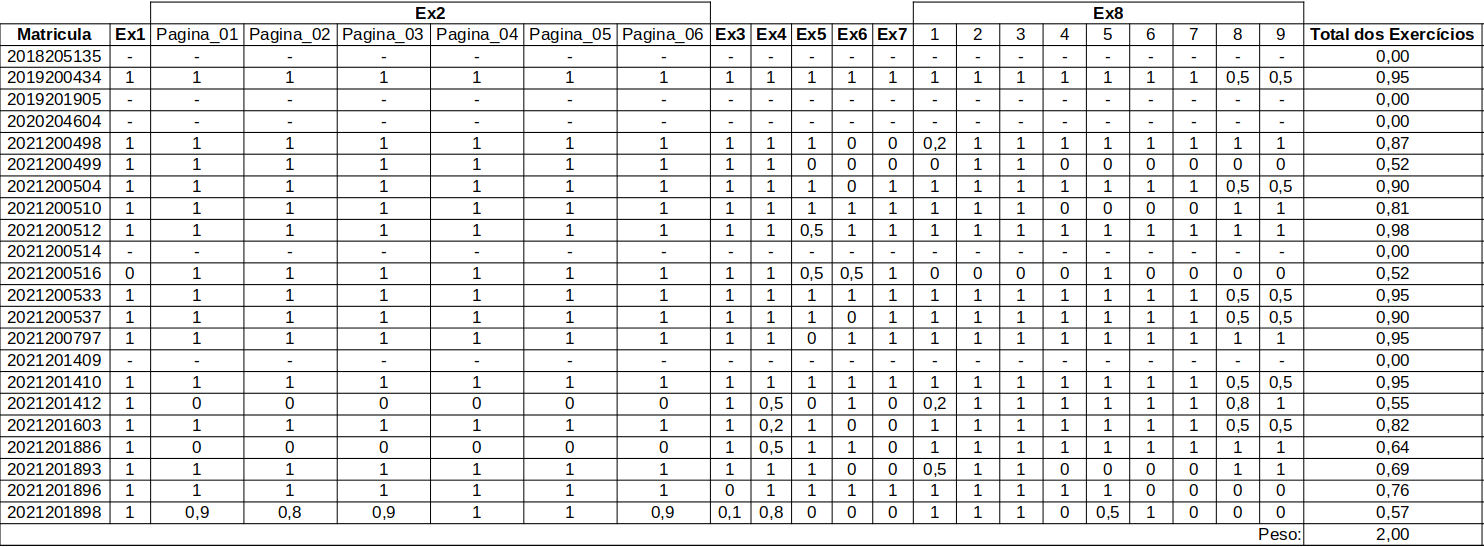
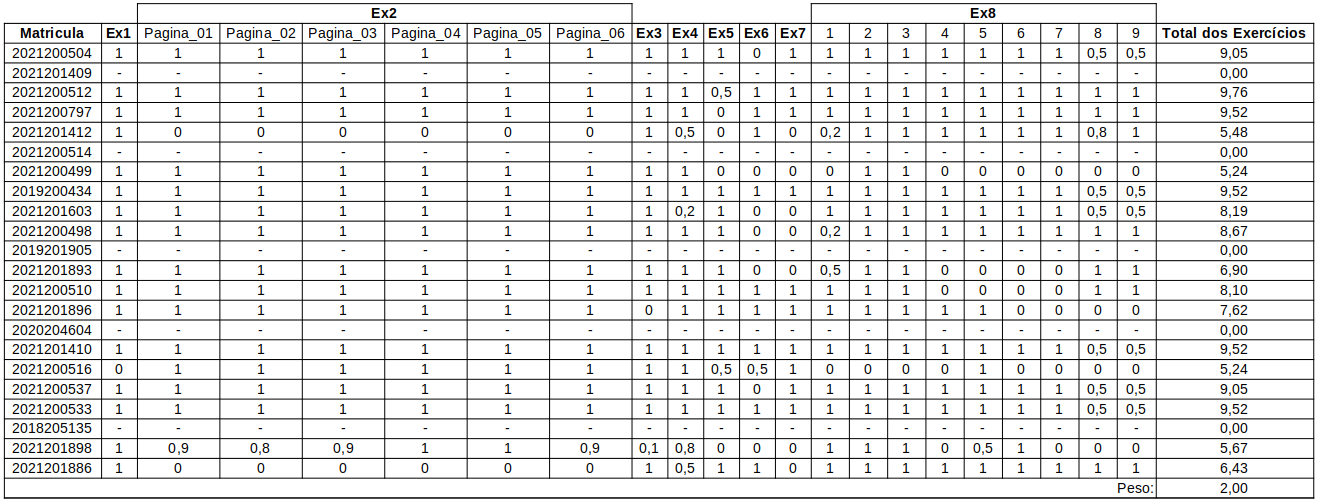
Updating website

Changed region(s): [[0.0, 0.0, 1.0, 1.0]]

diff --git a/_posts/2022-08-14-notas.md b/_posts/2022-08-14-notas.md
@@ -24,7 +24,7 @@ Assim:
 
 ## Notas dos exercícios:
 
-A colunas "**Ex**" representam, de 0 a 1, a fração realizada do que foi pedido. Erros mais graves e falta de conteúdo causaram o desconto de nota. O total é calculado da seguinte forma: a soma de todos os valores da linha é dividida por 21. Como podem ver, os exercícios 2 e 8 possuem peso maior que os demais, por terem muitas atividades internas e por não serem guiados totalmente pelo professor em sala.
+A colunas "**Ex**" representam, de 0 a 1, a fração realizada do que foi pedido. Erros mais graves e falta de conteúdo causaram o desconto de nota. O total é calculado da seguinte forma: a soma de todos os valores da linha é dividida por 21 e multiplicada por 10. Como podem ver, os exercícios 2 e 8 possuem peso maior que os demais, por terem muitas atividades internas e por não serem guiados totalmente pelo professor em sala.
 
 ![Sumário das notas dos exercícios]({{site.baseurl}}{%link files/notas/sumario_notas_exercicios.png %})
 
